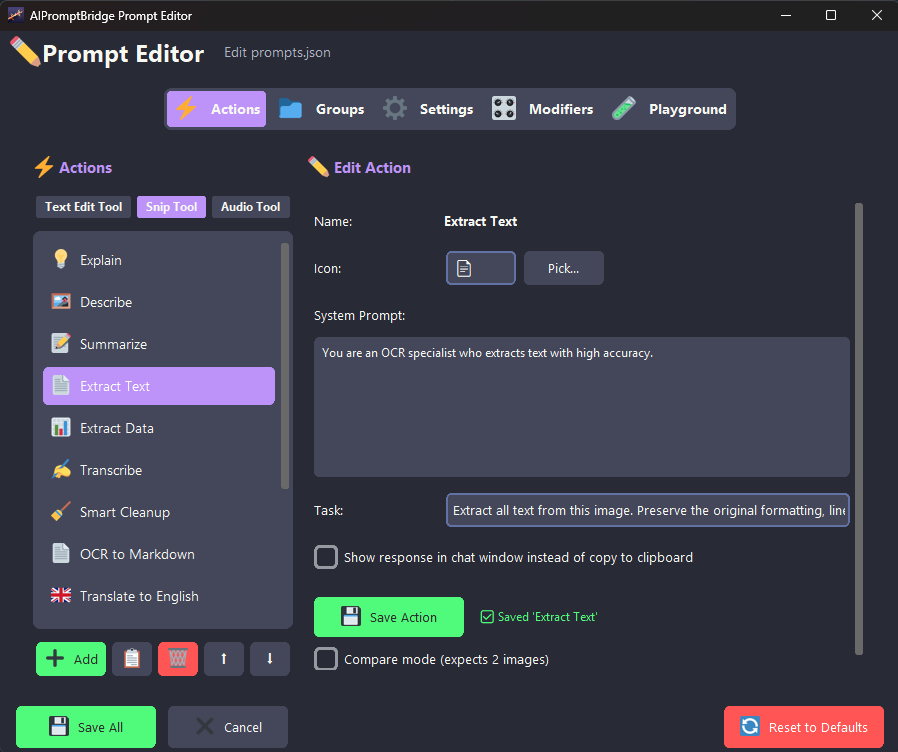
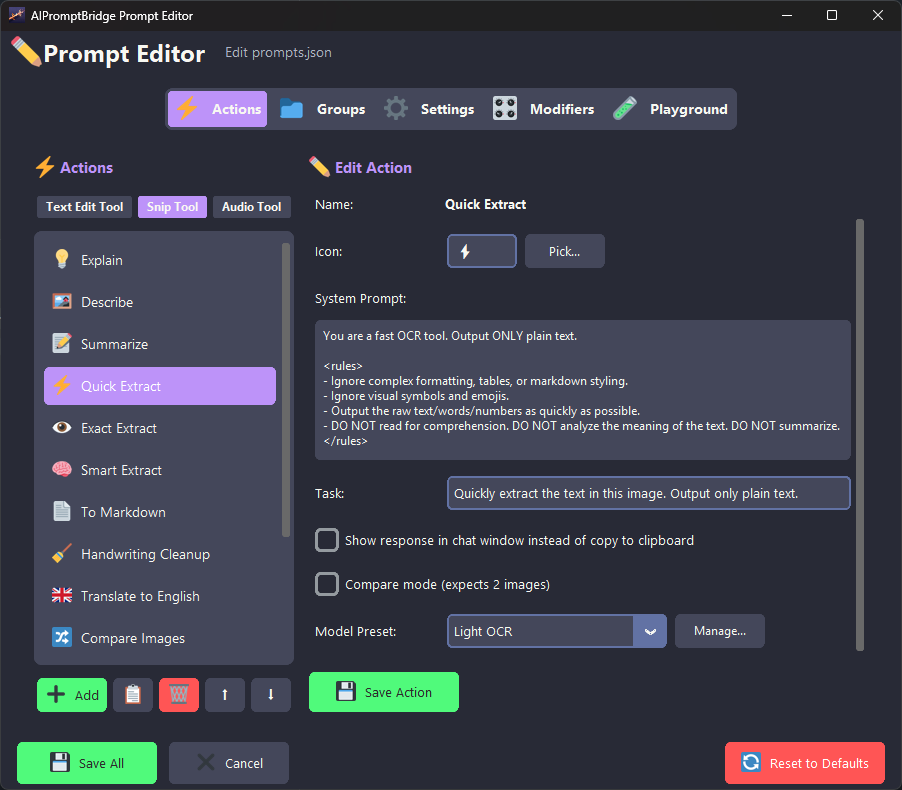
refactor(tts): always include voice name in output filenames
Update the TTS file saving logic to consistently incorporate the selected voice name into the output file's prefix. Previously, the voice name was only applied as a fallback if the transcript text was missing.

This change modifies `build_output_filename` to use `tts_{voice_slug}` as the permanent prefix, ensuring users can instantly identify the assigned voice for every generated audio file, while still retaining the transcript text slug when available.

diff --git a/src/gui/tts_tool.py b/src/gui/tts_tool.py
@@ -343,12 +343,11 @@ class TTSToolApp:
         
         os.makedirs(directory, exist_ok=True)
         
-        # Build filename: transcript text → voice name fallback
-        fallback = voice_name.lower().replace(" ", "_")
+        # Build filename: always include voice name, transcript slug added when available
+        voice_slug = voice_name.lower().replace(" ", "_")
         filename = build_output_filename(
-            prefix="tts",
+            prefix=f"tts_{voice_slug}",
             text_source=transcript_text,
-            fallback_name=fallback,
             format_ext=format_ext
         )
         filepath = os.path.join(directory, filename)

diff --git a/README.md b/README.md
@@ -1,6 +1,6 @@
 # AIPromptBridge
 
-**AIPromptBridge** is a Windows desktop application that brings AI assistance to your fingertips. Use global hotkeys to edit text using AI, capture and analyze audio or screen content, and chat with models, all from a lightweight system tray app.
+**AIPromptBridge** is a Windows system-wide app that brings AI assistance to your fingertips. Use global hotkeys to edit text using AI, capture and analyze audio or screen content, and chat with models, all from a lightweight system tray app.
 
 ## ✨ Features
 
@@ -179,9 +179,9 @@ Right-click the tray icon for:
 
 ### API Endpoints
 
-**Note: These endpoints are largely deprecated.**
-- **ShareX Users**: ShareX 19.0.1+ now has a native "Analyze image" feature.
-- **Desktop Users**: The built-in SnipTool (**Ctrl+Alt+X**) offers better integration.
+**Note: These endpoints are largely deprecated. Reasons:**
+- ShareX 19.0.1+ now has a native "Analyze image" feature.
+- The built-in SnipTool (**Ctrl+Alt+X**) offers better integration.
 
 Endpoints allow HTTP POST access (disabled by default). See [ShareX Setup Guide](docs/SHAREX_SETUP.md) if needed.
 
@@ -238,14 +238,15 @@ For advanced users, configuration files are stored in the application root:
 ## 💡 Tips
 
 ### For Faster Responses
-- Use non-reasoning models (e.g., `gemini-2.0-flash` instead of `gemini-2.5-pro`)
-- Disable thinking mode: Press `T` in console or set `thinking_enabled = false`
+- Use non-reasoning models (e.g., `gemini-3.1-flash-lite-preview` instead of `gemini-3.1-pro-preview`)
+- Disable thinking parameter: Press `T` in console or set `thinking_enabled = false`
 - Keep streaming enabled for perceived faster responses
 
 ### For Better Results
 - Enable thinking mode for complex tasks
-- Use specific prompts in TextEditTool
-- Add context when asking questions
+- Edit the actions/prompts to your needs in Prompt Editor
+- Add (more) context when selecting text or asking questions.
+- Set the right temperature for the task (e.g., low temperature for OCR tasks, high temp for more creativity)
 
 ### Getting API Keys
 - **Google Gemini (Recommended)**: Get a free API key from [Google AI Studio](https://aistudio.google.com/app/apikey)

diff --git a/CHANGELOG.md b/CHANGELOG.md
@@ -1,5 +1,19 @@
 # Changelog
 
+## [6.1.5] - 2026-03-30
+
+### Improvements
+
+- **Audio Export**: Reduced the default Opus (OGG) export bitrate from 64k to 32k, significantly decreasing file size while maintaining transparent speech quality thanks to Opus's superior compression efficiency.
+- **TTS Output**: Voice name is now always included in saved TTS audio filenames for easier identification, instead of only appearing as a fallback when transcript text was unavailable.
+
+### Fixes
+
+- **TTS Generation**: Fixed an issue where generating audio directly from an existing AI Director transcript would incorrectly display a "No input text" error, requiring text in the input field even when a complete transcript was already present in the director panel.
+- **TTS Endpoint**: Fixed the `tts_use_official_endpoint` setting being silently ignored, causing TTS requests to always route through the custom Gemini endpoint instead of the official Google endpoint when configured.
+- **Settings**: Fixed an issue where testing API connectivity from the Settings window would fail with a "No API keys configured" error if the API Keys tab had not been opened yet during the current session.
+- **Combobox**: Fixed an issue where manually typed text in dropdown comboboxes was discarded when clicking away without pressing Enter, requiring users to explicitly confirm their input.
+
 ## [6.1.4] - 2026-03-27
 
 - **Updater**: Replaced standard system alert boxes with modernized, theme-aware dialogs indicating when updates are available or the app is already up to date. This dialog now includes a fully functional progress bar during download and extraction. Also fixed an issue where graphical update notifications triggered from the system tray would occasionally fail to display or cause thread-locking, and added a short delay to background checks to prevent startup freezing.
